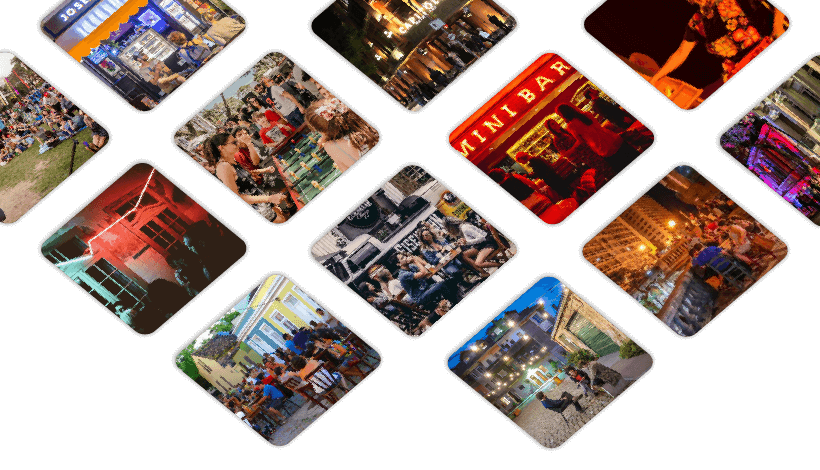
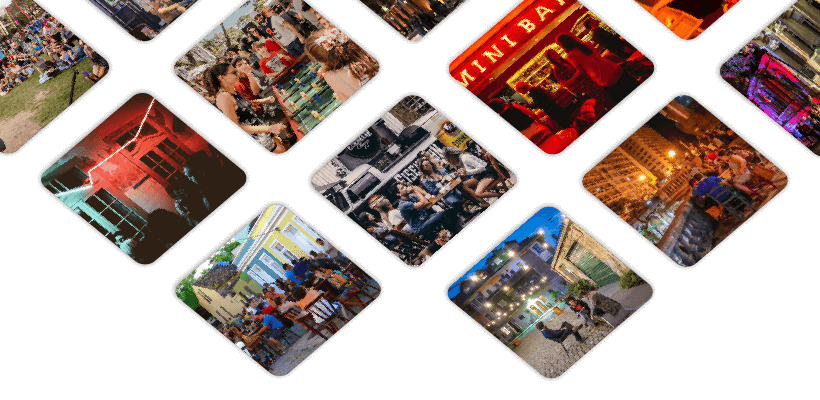
Add last users pictures in index and sign up page

diff --git a/web/app/controllers/feeds_controller.rb b/web/app/controllers/feeds_controller.rb
@@ -18,6 +18,7 @@ class FeedsController < ApplicationController
 		@categories        = Category.select("categories.id, categories.details, COUNT(events.id) as active_events_count").joins(:events).where("events.datetimes[1] > ?", DateTime.now).group("categories.id")
 		@show_filter_group = params[:filter_group]
 		@themes            = Theme.all
+		@users             = User.all.limit(16).order('created_at DESC')
 
 		if @stimulus_reflex
 			render layout: false

diff --git a/web/app/controllers/users/registrations_controller.rb b/web/app/controllers/users/registrations_controller.rb
@@ -7,9 +7,10 @@ class Users::RegistrationsController < Devise::RegistrationsController
 	# before_action :configure_account_update_params, only: [:update]
 
 	# GET /resource/sign_up
-	# def new
-	#   super
-	# end
+	def new
+		@users = User.all.limit(16).order('created_at DESC')
+		super
+	end
 
 	# POST /resource
 	def create
